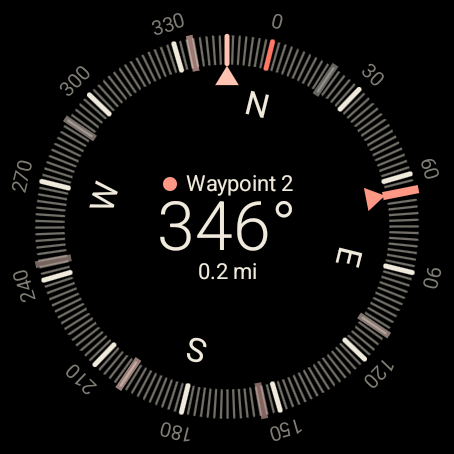
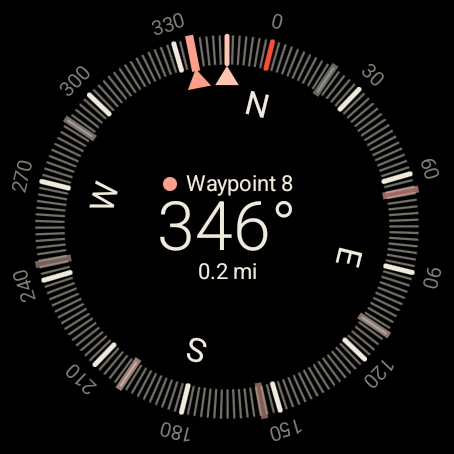
Docs and pictures for watch-test fix round 2: north #FF4D33 and the error color #FF7C65 on the owner's gray scheme (README, TESTING, spec, WATCH-CHECKLIST row 16 with the pointer/north/focused-arrow comparison, screenshots index); the owner's approvals of arrival first and `10 ft ±50 ft` recorded in
Claude-Session: https://claude.ai/code/session_01KAiVD4eVXLN9qRyssXtjz6

diff --git a/docs/superpowers/specs/2026-10-13-wear-compass-v3-watch-report.md b/docs/superpowers/specs/2026-10-13-wear-compass-v3-watch-report.md
@@ -152,7 +152,7 @@ As built (Task 5, 2026-10-14, and its fix round the same day):
 - `Standard`: the pointer `#2F8BFF`, north and the error color `#FF3B30`, the ink `#E8EAED`, the secondary text `#9E9E9E`, the faint ticks `#6E6E6E`, the dial's numbers `#7C7C7C`, and a waypoint's stored place (0 to 360) taken as a hue on the full wheel at 0.65 of saturation and full brightness (`wheelColor`), as waypoints were colored in v2 before the ring. New waypoints are given places 137.508 degrees apart (the golden angle) as in v2, now starting at 108.3 (`FIRST_WAYPOINT_PLACE`), the middle of the widest gap of hue between north's red (3.2) and the pointer's blue (213.5), a green; until then they started at 0, a red beside north's. A new waypoint's place is chosen from that numbering (`nextWaypointPlace`, fix round 2): a place within 25 degrees (`SKIP_HUE_APART`) of north's red or the pointer's blue is passed over, and so is one already taken; of the first eight left, the one furthest from the places of the waypoints there are is given, the earliest of those as far. So no new waypoint lands within 25 degrees of the red or the blue (the numbering's third, seventh and eighth places, 23.3, 213.4 and 350.9, are never given), the first is still 108.3, and on an install whose waypoints were numbered from 0 a new place is not put beside an old one: with eight such waypoints the numbering's next place, 108.3, was 3.3 degrees from one, and now the next three are each at least 23 degrees from every place taken. On a new install the first eight are 108.3, 298.4, 180.9, 43.4, 245.8, 75.9, 148.5 and 265.9. The place is chosen and the waypoint stored under one lock, so two saves made together get two places. A waypoint keeps the place it was given: the places of existing waypoints are not changed, and a color set by hand on the edit screen is not held to the 25 degrees. The colors are never made from the scheme in this mode (`paletteFor` ignores it). The library is still asked whether it gives a scheme, so that the row can say whether `Watch face` can be chosen; what it gives is not kept.
 - `Watch face`: the three roles as in v2 (`roleColors`), with one change: a primary with less than 0.30 of saturation once it reads (`ACCENT_MIN_SATURATION`), but at least 0.10 (`GRAY_SATURATION`), is deepened to 0.30 with its hue and its brightest channel kept, and the scheme is used. Below 0.10 it is a gray and, as before, the whole scheme gives way to the app's own three (until watch-test fix round 1: see the gray schemes below). The tertiary and the error color are still used from 0.15 (`MIN_SATURATION`). The Wear OS 5.1 image's `#D9E2FF` (0.149) becomes `#B2C4FF`, so on that image the scheme is now used (north `#FD7EF3`, error `#F2B8B5`); the primaries the API 37 image made, 0.28 and 0.22, are deepened to 0.30 too. The accent is told from the ink by its saturation: it has at least 0.2 more (`ACCENT_INK_SATURATION_APART`), checked on the recorded schemes and on 20 000 random ones. The ink, the secondary text, the faint ticks and the dial's numbers take the hue and the saturation of the scheme's `onSurface`, `onSurfaceVariant` and `outline` (the system's `system_on_surface_dark`, `system_on_surface_variant_dark`, `system_outline_dark`), the saturation held under 0.10, at the least brightness at which each has at least the contrast with black of the app's own color for that role (`graysFor`); a dark hue that cannot read that well at full brightness gives up saturation instead. So each reads at least as well as in `Standard` and their order from light to dark is kept. A waypoint's stored place is a color on a ring of three anchors that are at least 60 degrees of hue from one another (`ringThirdFor`): the accent, north, and the error color where it is that far from both; otherwise a color made at the middle of the widest gap of hue between the accent and north, with the mean of their saturations (at least 0.15) at full brightness, lightened until it reads at 4.5 to 1. Errors are still drawn in the error color; only the ring's third anchor changes. On the API 35 image the error color `#F2B8B5` is 58 degrees from north, and the third anchor is `#D4FF98`; with the API 37 seeds the error color `#FFBEB9` is the third. A scheme whose primary gives way (the app's blue, red and red) has the third `#58FF30`. The pointer, north, the words that can be tapped and the switch ticks follow the roles, as in v2. The background stays black; the confirming green and the breadcrumb color are not taken from the scheme.
 - The schemes the emulators gave, as primary, tertiary, error, `onSurface`, `onSurfaceVariant`, `outline`: API 35 `#D9E2FF #FDD7FA #F2B8B5 #E2E2E9 #C5C6D0 #8F9099`; API 37 with the seed `2F8BFF` `#B7CFFF #D3C8FF #FFBEB9 #E4E8F4 #CACEDA #A2A5B1`; API 37 with `00AA55` `#BBEFC2 #DCE9A1 #FFBEB9 #E0EBDE #C6D1C4 #9EA99C` (`theme_style` `NEUTRAL` in place of `TONAL_SPOT` gave the same colors). What the app makes of them, as accent, north, error, ink, secondary text, faint, numbers: API 35 `#B2C4FF #FD7EF3 #F2B8B5 #EAEAF1 #9D9EA6 #6D6E75 #7B7C84`; seed `2F8BFF` `#B2CCFF #D47FFF #FFBEB9 #E6EAF6 #9B9EA7 #6C6E76 #7A7C85`; seed `00AA55` `#A7EFB1 #D9E974 #FFBEB9 #E2EDE0 #99A197 #6A7168 #777F75`.
-- Gray schemes (watch-test fix round 1, 2026-10-16). The owner's watch (API 37, `dynamic_color_theme_enabled` 1, the overlay's `system_palette` `#DCD7CA`, `accent_color` `#FF3E32`, `theme_style` `CONTENT`) gave the app primary `#FFF9EB`, tertiary `#FFC0B7`, error `#FFBFB0`, `onSurface` `#EDE8DA`, `onSurfaceVariant` `#D3CEC1`, `outline` `#AAA699`; the primary's 0.078 of saturation is under 0.10, so the whole scheme gave way to the app's blue and red but for the ink ("drawing from watch face colors didn't work (no effect on colors)"). The owner, 2026-10-16: "For a color scheme like mine, North should be the red from the watch face, and the marker colors and other elements should be gray or gray-red. I.e. North is the dominant theme color and the waypoints and other UI elements come from other theme colors with interpolation". As built: a scheme whose primary is under 0.10 once it reads, and whose tertiary or error color is a color (0.15 or more once it reads), is a gray scheme (`isGrayScheme`, `grayRoleColors`, `nav/WatchColors.kt`). North is made from the tertiary, or from the error color where the tertiary is a gray: the tertiary is the scheme's color the system makes from the watch face's own accent (here `#FFC0B7` from `#FF3E32`), the error color the system's error tone; its hue and brightness are kept, it is deepened to at least 0.5 of saturation and to 0.3 more than the pointer's (`NORTH_POINTER_SATURATION_APART`), and brightened until it reads. The pointer (the accent: the pointer, the words that can be tapped, the switch ticks) is the primary, made to read, mixed straight in red, green and blue with north, at the least share of north that gives 0.30 of saturation: a gray-red, told from the ink (under 0.10) by 0.2 of saturation and from north by 0.3, which is the measure by which north and the pointer are told apart in a gray scheme, in place of the 60 degrees of hue. The error color follows the rule for every scheme (the app's red where it looks like the pointer). The waypoints' ring keeps its order and its reading (accent, north, third) with a gray of the scheme as its third anchor: the `outline` (or `onSurfaceVariant`, or the primary), held under 0.10 and made to read on black (`grayRingThird`), so new waypoints are grays and gray-reds between the three; the rule of three anchors 60 degrees apart stays for the other schemes. With the owner's scheme: the pointer `#FFC3B2`, north `#FF7865` (hue 7.4, 0.60), error `#FF3B30`, the ring's gray `#AAA69B`, the ink `#EFEADC`, secondary text `#A29E94`, faint `#716F67`, numbers `#7F7C74`; the first eight new waypoints `#AAA69B #FF9785 #DDB8A9 #D88D7E #FFB8A7 #C19A8C #C6B0A3 #FFAC9A`, each at least 12 apart in a channel from the others and at least 24 from north. A scheme of grays only (no color in the tertiary or the error color) is not used, as before. Schemes whose primary is a color are made as before. `WatchColorsTest` and `ColorsSettingTest` check these with the owner's scheme (they failed on the code before: the pointer `#2F8BFF` and north `#FF3B30`) and on 150 000 and 20 000 random schemes.
+- Gray schemes (watch-test fix round 1, 2026-10-16). The owner's watch (API 37, `dynamic_color_theme_enabled` 1, the overlay's `system_palette` `#DCD7CA`, `accent_color` `#FF3E32`, `theme_style` `CONTENT`) gave the app primary `#FFF9EB`, tertiary `#FFC0B7`, error `#FFBFB0`, `onSurface` `#EDE8DA`, `onSurfaceVariant` `#D3CEC1`, `outline` `#AAA699`; the primary's 0.078 of saturation is under 0.10, so the whole scheme gave way to the app's blue and red but for the ink ("drawing from watch face colors didn't work (no effect on colors)"). The owner, 2026-10-16: "For a color scheme like mine, North should be the red from the watch face, and the marker colors and other elements should be gray or gray-red. I.e. North is the dominant theme color and the waypoints and other UI elements come from other theme colors with interpolation". As built: a scheme whose primary is under 0.10 once it reads, and whose tertiary or error color is a color (0.15 or more once it reads), is a gray scheme (`isGrayScheme`, `grayRoleColors`, `nav/WatchColors.kt`). North is made from the tertiary, or from the error color where the tertiary is a gray: the tertiary is the scheme's color the system makes from the watch face's own accent (here `#FFC0B7` from `#FF3E32`), the error color the system's error tone; its hue and brightness are kept, it is deepened to 0.8 of saturation (`NORTH_GRAY_SATURATION`, the saturation of the watch face's `#FF3E32`; watch-test fix round 2), or kept at its own where that is more, and to at least 0.5 and 0.3 more than the pointer's (`NORTH_POINTER_SATURATION_APART`), and brightened until it reads; a hue too dark to read at full brightness with that much gives up as little as reading needs. The pointer (the accent: the pointer, the words that can be tapped, the switch ticks) is the primary, made to read, mixed straight in red, green and blue with north, at the least share of north that gives 0.30 of saturation: a gray-red, told from the ink (under 0.10) by 0.2 of saturation and from north by 0.3, which is the measure by which north and the pointer are told apart in a gray scheme, in place of the 60 degrees of hue. The error color is the scheme's where it reads, does not look like the pointer and has less saturation than north; otherwise it is the pointer mixed straight with north at the least share that gives it 0.3 more saturation than the pointer (`ERROR_MIN_SATURATION_APART`), a gray-red told from the pointer as for any scheme, or north itself where no lesser share does. So north is the reddest color on the screen. (In watch-test fix round 1 the error color followed the rule for every scheme, the app's red where it looks like the pointer; on the owner's scheme that was `#FF3B30`, 0.81 of saturation, redder than north.) The waypoints' ring keeps its order and its reading (accent, north, third) with a gray of the scheme as its third anchor: the `outline` (or `onSurfaceVariant`, or the primary), held under 0.10 and made to read on black (`grayRingThird`), so new waypoints are grays and gray-reds between the three; the rule of three anchors 60 degrees apart stays for the other schemes. With the owner's scheme: the pointer `#FFC4B2` (0.30), north `#FF4D33` (hue 7.6, 0.80, 6.4 to 1 on black; `#FF7865`, 0.60, in watch-test fix round 1), error `#FF7C65` (0.60, 8.3 to 1), the ring's gray `#AAA69B`, the ink `#EFEADC`, secondary text `#A29E94`, faint `#716F67`, numbers `#7F7C74`; the first eight new waypoints `#AAA69B #FF7F68 #DDB8A9 #D87663 #FFB39F #C18E7F #C6B0A3 #FF9F8A`, each at least 12 apart in a channel from the others and at least 24 from north, and none of the first fifty with as much saturation as north. The second (`#FF7F68`) is 3 apart in a channel from the error color. A scheme of grays only (no color in the tertiary or the error color) is not used, as before. Schemes whose primary is a color are made as before. `WatchColorsTest` and `ColorsSettingTest` check these with the owner's scheme (they failed on the code before: the pointer `#2F8BFF` and north `#FF3B30`) and on 150 000 and 20 000 random schemes.
 - With no scheme the row reads `Not available on this watch`, takes no tap, and the colors are those of `Standard`; a stored `Watch face` stays stored. Seen on the API 35 and API 37 emulators by putting `dynamic_color_theme_enabled` to 0 and to 1 with `adb shell settings put global`: with 0 the row said `Not available on this watch` and the compass had the blue and the red; with 1 again it said `Watch face`. `ColorsRowTest` does the same through the shell.
 - With the API 35 image's scheme the accent deepened to 0.30, `#B2C4FF`, is a clear periwinkle beside the near-white ink `#EAEAF1` (`colors-watchface-large.png`); deepened only to 0.15 (`#D8E1FF`) it had been told from the ink by its shape and place more than by its color.
 - Where the first new waypoint's color is. With `Standard` its place, 108.3, is the wheel's `#7AFF59`, between yellow-green and green, as the owner asked. With `Watch face` the ring is read turned (`RING_READ_OFFSET_TURNS`, two thirds of a turn less 108.3 over 360) so that the place 108.3 is the ring's third anchor: the accent is at the place 228.3 and north at 348.3, and their order and the thirds between them are as before. Until then a place was read straight, the accent at 0, and the first new waypoint was nine tenths of the way from the accent to north, close to north's pink (`#F685F4` beside north's `#FD7EF3` on the API 35 image). Now it is the third anchor (`#D4FF98` on the API 35 image, the error color `#FFBEB9` with the API 37 seeds), checked on the recorded schemes and on 20 000 random ones, and in `colors-watchface-large.png` and `-small.png` (`Waypoint 8`). No stored place is changed, so a waypoint made before this keeps its place and is drawn at the turned ring's color for it. The reading allocates nothing.
@@ -245,7 +245,7 @@ As built (watch-test fix round 1, 2026-10-16):
 
 - `directionUncertain` (`nav/Targets.kt`): the position's reported accuracy (the radius the system gives) is larger than the distance. `buildTargets` and `buildTrail` decide arrival first, as before (10 m or 30 ft, left beyond 12 m or 36 ft; for the crumb walked to only with a fix of 15 m or better); a target or the crumb walked to that is not arrived at and is uncertain has no dial angle and is marked `uncertain`. So it has no line and no arrow on the dial, it is not faced (no blind navigation pulse), the pointer passing its bearing gives no target vibration (`nextTargetSide` takes no bearing as no side), and it is not counted as arrived at: the crumb is not consumed (consuming is arrival's alone, `trailAfterFix`, which is unchanged). A target that is not focused has no line either, and nor has another crumb's tick; such a crumb is not counted as arrived at.
 - The readout writes the distance and, dim after it, the position's accuracy as a save's accuracy is written: `10 ft ±50 ft`, `15 m ±30 m`, for a waypoint as for a crumb (until then a waypoint's distance never had it). An old position is marked `(old)` instead, as for any distance. A crumb walked to that is not uncertain keeps the poor fix's accuracy after its distance as before (fixes poorer than 15 m).
-- Ruling: arrival comes first. Read the other way (no arrival while the accuracy is larger than the distance), a wearer standing on a crumb with a 5 m fix would never reach it, and with fixes of 10 m or poorer no crumb could be reached at all. With arrival first, a crumb 3 m away is still consumed by a fix of 15 m or better (as before), and the indoor case the owner met (a 15 m fix, `isGoodEnough`) consumes it too; a fix poorer than 15 m, which consumes nothing, now draws no line to a crumb nearer than its accuracy.
+- Ruling: arrival comes first. Read the other way (no arrival while the accuracy is larger than the distance), a wearer standing on a crumb with a 5 m fix would never reach it, and with fixes of 10 m or poorer no crumb could be reached at all. With arrival first, a crumb 3 m away is still consumed by a fix of 15 m or better (as before), and the indoor case the owner met (a 15 m fix, `isGoodEnough`) consumes it too; a fix poorer than 15 m, which consumes nothing, now draws no line to a crumb nearer than its accuracy. The owner approved this ruling on 2026-10-16: "Arrival first, as built (Recommended)".
 - The emulators give no position less accurate than 5 m (the geo console sets no accuracy, and an NMEA sentence's HDOP of 25 changed nothing on API 37), so the app's own updates cannot reach this state there. `UncertainPointerTest` composes the real readout and dial (`CompassReadout`, `CompassDial`) in the real activity from the state the pure functions build for a given accuracy, reads the words through the accessibility tree and the line by the pixels of its color: a crumb 10 ft away with a 50 ft fix shows `10 ft ±50 ft` and no line, 328 ft away `328 ft ±50 ft` with its line; a waypoint 49 ft away with a 98 ft fix `49 ft ±98 ft` and no line, 328 ft away `328 ft` with its line.
 
 ## Not possible to verify without the watch
@@ -262,6 +262,6 @@ Approved by the owner on 2026-10-16 ("Approve A and B (Recommended)"), A, the wo
 
 Approved by the owner on 2026-10-16 (the same answer), B, the check screen's words, in the debug and watch builds only: built by Task 6 fix round 1 for the check screen's `Heading source` row on a watch that cannot work out the magnetic heading: `Magnetic unavailable`, `Blend unavailable`. Built by Task 7 for the check screen (debug and watch builds only), not in the spec before: calibration's row `Check`; the screen's title `Check`; `Heading source` with `Fused`, `Magnetic`, `Blend`; `Error`, `Level`, `Field`; the parts `Watch colors`, `Inputs`, `Vibrations`; `Color scheme`, `None`, `Primary`, `Tertiary`, `Error color`, `On surface`, `On surface variant`, `Outline`; `Buttons`, `Unknown`, `Side keys`, `STEM_1` to `STEM_3`, `Assignable button`, `Wear SDK`, `Wear SDK reached`, `One-handed gestures`, `Yes`, `No`; the primitives `Click`, `Thud`, `Spin`, `Quick rise`, `Slow rise`, `Quick fall`, `Tick`, `Low tick`; `Play thin line`, `Play thick line`, `Play target`, with `Primitives` or `Constant`; `--` for a value there is none of. Built by Task 7 fix round 1 in place of the three headings' row labels `Fused`, `Magnetic`, `Blend` (which were also the source row's value): `Fused heading`, `Magnetic heading`, `Blend heading`.
 
-Proposed by watch-test fix round 1 and built as proposed (owner to approve): the distance to a target nearer than the position's accuracy, followed dim by that accuracy, `10 ft ±50 ft` (in meters `15 m ±30 m`), the form a save's accuracy and a poor fix's note after a crumb's distance already have.
+Proposed by watch-test fix round 1 and built as proposed; the owner approved it on 2026-10-16 ("Approve (Recommended)"): the distance to a target nearer than the position's accuracy, followed dim by that accuracy, `10 ft ±50 ft` (in meters `15 m ±30 m`), the form a save's accuracy and a poor fix's note after a crumb's distance already have.
 
 Proposed, not built: `Taps at ticks and the target`, as the `Tick feedback` row's second line in place of `Faint tap at each tick mark` (Task 4).

diff --git a/README.md b/README.md
@@ -107,7 +107,7 @@ Crumbs are stored separately from waypoints, are never listed with them except a
 | Colors | `Standard` | `Standard` or `Watch face`, the choice as it stands; `Not available on this watch` where the system gives no color scheme |
 | Back up waypoints | on | `With this watch's backup` |
 
-`Colors` is a row, not a switch: one tap gives the other choice, and a screen reader says what the tap does (`Use watch face colors` or `Use standard colors`). It is backed up with the other settings, and a value that cannot be read is `Standard`. With `Watch face`, on API 35 and newer while the system's dynamic color setting (`dynamic_color_theme_enabled`) is 1, the Wear Material 3 library gives the system's color scheme: the pointer and the words that can be tapped take its primary, north its tertiary and the error color its error color, after the contrast checks of `nav/WatchColors.kt` (each reads on black at 4.5 to 1; a primary with less than 0.30 of saturation but at least 0.10 is deepened to 0.30 and kept; north is kept 60 degrees of hue from the pointer and at least 0.5 of saturation). A primary under 0.10 is taken for a gray, and the scheme is then a gray scheme (`isGrayScheme`) when its tertiary or its error color is a color: north is made from the tertiary (the color the system makes from the watch face's accent), or from the error color where the tertiary is a gray, with its hue and brightness kept and deepened to at least 0.5 of saturation and to 0.3 more than the pointer's; the pointer and the words that can be tapped are the primary mixed with north, with the least share of north that gives 0.30 of saturation (a gray-red); and the waypoints' ring runs from the pointer to north to a gray of the scheme (its `outline`, made to read on black, `grayRingThird`), so new waypoints are grays and gray-reds. With the scheme the owner's watch gave on 2026-10-16 (primary `#FFF9EB`, tertiary `#FFC0B7`, error `#FFBFB0`, `onSurface` `#EDE8DA`, `onSurfaceVariant` `#D3CEC1`, `outline` `#AAA699`) that is the pointer `#FFC3B2`, north `#FF7865`, the error color the app's red `#FF3B30` (the scheme's looks like the pointer), the ring's gray `#AAA69B` and the ink `#EFEADC`. A scheme whose primary, tertiary and error color are all grays is not used, and the colors are the app's own. The ink, the secondary text, the faint ticks and the dial's numbers take the hue and saturation of the scheme's `onSurface`, `onSurfaceVariant` and `outline`, the saturation held under 0.10, at the least brightness at which each has at least the contrast with black of the app's own color for that role; a dark hue that cannot read that well at full brightness gives up saturation instead. The background stays black, and the confirming green and the breadcrumb color do not change. Where the library gives no scheme, the row says `Not available on this watch`, takes no tap, and the colors are those of `Standard`; a stored `Watch face` is kept for when a scheme is given. No emulator image switches the system setting on by itself, and on the emulators the watch face's own colors did not change the scheme. The app looks at whether a scheme is given, and at its colors, when it comes on screen and when the setting is changed: a change of the system's scheme while the app is on screen is followed the next time it comes on screen.
+`Colors` is a row, not a switch: one tap gives the other choice, and a screen reader says what the tap does (`Use watch face colors` or `Use standard colors`). It is backed up with the other settings, and a value that cannot be read is `Standard`. With `Watch face`, on API 35 and newer while the system's dynamic color setting (`dynamic_color_theme_enabled`) is 1, the Wear Material 3 library gives the system's color scheme: the pointer and the words that can be tapped take its primary, north its tertiary and the error color its error color, after the contrast checks of `nav/WatchColors.kt` (each reads on black at 4.5 to 1; a primary with less than 0.30 of saturation but at least 0.10 is deepened to 0.30 and kept; north is kept 60 degrees of hue from the pointer and at least 0.5 of saturation). A primary under 0.10 is taken for a gray, and the scheme is then a gray scheme (`isGrayScheme`) when its tertiary or its error color is a color: north is made from the tertiary (the color the system makes from the watch face's accent), or from the error color where the tertiary is a gray, with its hue and brightness kept and deepened to 0.8 of saturation, the saturation of the watch face's own red on the owner's watch (`#FF3E32`), and to at least 0.5 and 0.3 more than the pointer's (a hue too dark to read at full brightness with 0.8 gives up as little as reading needs); the pointer and the words that can be tapped are the primary mixed with north, with the least share of north that gives 0.30 of saturation (a gray-red); the error color is the scheme's where it reads, does not look like the pointer and has less saturation than north, and otherwise the pointer mixed with north at the least share that gives 0.3 more saturation than the pointer (a gray-red), so north is the reddest color on the screen; and the waypoints' ring runs from the pointer to north to a gray of the scheme (its `outline`, made to read on black, `grayRingThird`), so new waypoints are grays and gray-reds. With the scheme the owner's watch gave on 2026-10-16 (primary `#FFF9EB`, tertiary `#FFC0B7`, error `#FFBFB0`, `onSurface` `#EDE8DA`, `onSurfaceVariant` `#D3CEC1`, `outline` `#AAA699`) that is the pointer `#FFC4B2`, north `#FF4D33` (0.80 of saturation, 6.4 to 1 on black), the error color `#FF7C65` (0.60, 8.3 to 1; the scheme's looks like the pointer), the ring's gray `#AAA69B` and the ink `#EFEADC`. A scheme whose primary, tertiary and error color are all grays is not used, and the colors are the app's own. The ink, the secondary text, the faint ticks and the dial's numbers take the hue and saturation of the scheme's `onSurface`, `onSurfaceVariant` and `outline`, the saturation held under 0.10, at the least brightness at which each has at least the contrast with black of the app's own color for that role; a dark hue that cannot read that well at full brightness gives up saturation instead. The background stays black, and the confirming green and the breadcrumb color do not change. Where the library gives no scheme, the row says `Not available on this watch`, takes no tap, and the colors are those of `Standard`; a stored `Watch face` is kept for when a scheme is given. No emulator image switches the system setting on by itself, and on the emulators the watch face's own colors did not change the scheme. The app looks at whether a scheme is given, and at its colors, when it comes on screen and when the setting is changed: a change of the system's scheme while the app is on screen is followed the next time it comes on screen.
 
 `Calibrate` shows the accuracy the magnetometer last reported (`High`, `Medium`, `Low`, `Unreliable`) and opens the calibration screen: the words `Turn your wrist slowly in every direction`; a ring of 24 segments with `Covered` and the share of them lit (`50%`) to its left and, when the rotation vector gives one, `Error` and the estimated heading error in whole degrees (`±12°`) to its right; the accuracy level; the field strength in microtesla; a frame that fills by quarters as accuracy improves; and a warning with the frame filled in the error color while the field is below 25 or above 65 microtesla. Each segment of the ring is a region of the directions the magnetometer's field can point in, in the watch's own frame (`nav/Calibration.kt`): three rings (the field through the back of the watch outermost, across its face, out of its face innermost) of eight sectors, placed by the direction of the field across the face. A segment lights when the field has pointed there while the screen is open, whatever the field's strength: a field of a strength the earth's cannot have lights its segment too, with the warning and the red frame. The lit segments are kept across openings of calibration, restarts of the app and the end of its process (in a file of their own, `settings-calibration`, which is not backed up), and start over, none lit, when the magnetometer reports that its accuracy has fallen to `Low` or `Unreliable` while its sensor runs (on any screen). A report below the level kept that comes in the first 3 seconds after the sensor is started, before a report at that level or better, does not count (`ringMemoryStep`, `RING_STARTUP_MS` in `nav/Calibration.kt`). A screen reader reads `Covered` and the share as one, and announces a change of the share. The ring shows the motion covered, not the accuracy. The screen is kept on for two minutes from its opening or from the last segment that lit, whichever is later. The last line shows the version and `MIT License`.
 

diff --git a/docs/TESTING.md b/docs/TESTING.md
@@ -37,7 +37,7 @@ The instrumented tests act on the app's real data on the device they run on. The
 scripts/test-counts.sh unit
 ```
 
-They cover the pure functions in `nav/`, and the table of vibrations in `ui/Vibrations.kt` (`VibrationTableTest`), and need no device. `StaticInitOrderTest` loads `nav/Navigation.kt` and `nav/WatchColors.kt` afresh in a class loader of its own, one or the other first, and checks the ring's read offset and the first waypoint's color each way (it failed on the offset's old field form with Navigation.kt first). `WaypointPlacesTest` checks the places new waypoints are given (500 in a row, 5000 random sets of places already taken). `CalibrationTest` checks the calibration ring's regions with fifteen magnetometer vectors recorded from the API 37 emulator (each set through its sensor console and read back from `dumpsys sensorservice`), the heading error read from values[4], the `Calibrate` prompt's threshold and its margin (on above 30 degrees, off only below 25, `largeHeadingError`), that a field of any strength lights its region, the two-minute keep-on rule, and the ring's memory (`ringMemoryStep`, `ringMemorySettles`): a fall to low or unreliable clears the ring, another level is only kept, and a report below the level kept in the first 3 seconds after the sensor is registered, before one at that level or better, does not clear it (a start-up that reports unreliable, then low, then its level keeps the ring; a sensor that stays low past the 3 seconds clears it). `WatchColorsTest` and `ColorsSettingTest` check the gray schemes (`isGrayScheme`, a primary under 0.10 beside a tertiary or error color that is a color) with the scheme of the owner's watch (primary `#FFF9EB`, tertiary `#FFC0B7`, error `#FFBFB0`, `onSurface` `#EDE8DA`, `onSurfaceVariant` `#D3CEC1`, `outline` `#AAA699`): it is used (before watch-test fix round 1 the pointer was `#2F8BFF` and north `#FF3B30`), north has the tertiary's hue, at least 0.5 of saturation and 0.3 more than the pointer, the pointer is a gray-red between the primary and north with 0.30 of saturation, the error color is the app's red, the ring's third anchor is the outline's gray, and the first eight new waypoints are grays or gray-reds, at least 12 apart in a channel from one another and 24 from north; on random schemes the gray ones keep these bounds and the others the rules as before. `TargetsTest`, `TrailTest` and `ReadoutTest` check the uncertain pointer (`directionUncertain`): a crumb 3 m away with a 30 m fix has no dial angle, is not arrived at and is not consumed, 100 m away it has its angle; arrival within 10 m is decided first; a waypoint 15 m away with a 30 m fix has no angle; another crumb that near has no tick; the readout writes `10 ft ±50 ft`, for a waypoint `49 ft ±98 ft`, and `(old)` instead with an old fix. `HeadingKindInUseTest` checks that a watch that cannot work out the magnetic heading runs the fused source whichever is asked for, and the check screen's `Magnetic unavailable` / `Blend unavailable`. `HeadingBlendTest` turns a fused heading that drifts 0.6 degrees a second through thirty full turns each way and checks that the blend stays within 5 degrees of the true heading. The second command prints each class's count and the total from the result XML, and exits 1 if a test failed or there are no results.
+They cover the pure functions in `nav/`, and the table of vibrations in `ui/Vibrations.kt` (`VibrationTableTest`), and need no device. `StaticInitOrderTest` loads `nav/Navigation.kt` and `nav/WatchColors.kt` afresh in a class loader of its own, one or the other first, and checks the ring's read offset and the first waypoint's color each way (it failed on the offset's old field form with Navigation.kt first). `WaypointPlacesTest` checks the places new waypoints are given (500 in a row, 5000 random sets of places already taken). `CalibrationTest` checks the calibration ring's regions with fifteen magnetometer vectors recorded from the API 37 emulator (each set through its sensor console and read back from `dumpsys sensorservice`), the heading error read from values[4], the `Calibrate` prompt's threshold and its margin (on above 30 degrees, off only below 25, `largeHeadingError`), that a field of any strength lights its region, the two-minute keep-on rule, and the ring's memory (`ringMemoryStep`, `ringMemorySettles`): a fall to low or unreliable clears the ring, another level is only kept, and a report below the level kept in the first 3 seconds after the sensor is registered, before one at that level or better, does not clear it (a start-up that reports unreliable, then low, then its level keeps the ring; a sensor that stays low past the 3 seconds clears it). `WatchColorsTest` and `ColorsSettingTest` check the gray schemes (`isGrayScheme`, a primary under 0.10 beside a tertiary or error color that is a color) with the scheme of the owner's watch (primary `#FFF9EB`, tertiary `#FFC0B7`, error `#FFBFB0`, `onSurface` `#EDE8DA`, `onSurfaceVariant` `#D3CEC1`, `outline` `#AAA699`): it is used (before watch-test fix round 1 the pointer was `#2F8BFF` and north `#FF3B30`), north has the tertiary's hue, 0.80 of saturation (the watch face's red `#FF3E32` has 0.80; before watch-test fix round 2 north was `#FF7865`, 0.60, and the error color the app's `#FF3B30`, 0.81, redder than north), is `#FF4D33` and has at least 6 to 1 on black, and 0.3 more saturation than the pointer, the pointer is a gray-red between the primary and north with 0.30 of saturation, the error color is `#FF7C65`, a gray-red between the pointer and north with 0.3 more saturation than the pointer and less than north (a scheme's error color `#FF5449` is kept, the app's `#FF3B30` is not), north has more saturation than each of the first fifty new waypoints, the ring's third anchor is the outline's gray, and the first eight new waypoints are grays or gray-reds, at least 12 apart in a channel from one another and 24 from north; on random schemes the gray ones keep these bounds (and on 150 000, north has at least the error color's saturation, and the error color is told from the pointer or is north itself) and the others the rules as before. `TargetsTest`, `TrailTest` and `ReadoutTest` check the uncertain pointer (`directionUncertain`): a crumb 3 m away with a 30 m fix has no dial angle, is not arrived at and is not consumed, 100 m away it has its angle; arrival within 10 m is decided first; a waypoint 15 m away with a 30 m fix has no angle; another crumb that near has no tick; the readout writes `10 ft ±50 ft`, for a waypoint `49 ft ±98 ft`, and `(old)` instead with an old fix. `HeadingKindInUseTest` checks that a watch that cannot work out the magnetic heading runs the fused source whichever is asked for, and the check screen's `Magnetic unavailable` / `Blend unavailable`. `HeadingBlendTest` turns a fused heading that drifts 0.6 degrees a second through thirty full turns each way and checks that the blend stays within 5 degrees of the true heading. The second command prints each class's count and the total from the result XML, and exits 1 if a test failed or there are no results.
 
 ## Instrumented tests, one emulator
 

diff --git a/docs/screenshots/README.md b/docs/screenshots/README.md
@@ -189,7 +189,7 @@ In all of them the position was fed and the watch laid flat at a magnetic headin
 
 ## Watch-test fix round 1 (2026-10-16)
 
-The uncertain pointer: taken by `UncertainPointerTest` itself (`/data/local/tmp/uncertain-<name>.png`, pulled after `scripts/quick-tests.sh UncertainPointerTest` on `Wear_OS_Large_Round` and `Wear_OS_Small_Round`), the real readout and dial composed in the real activity from the screen state `buildTrail` and `buildTargets` make for the accuracy named, facing true north: the emulators give no position less accurate than 5 m. The gray scheme: two emulators made for it from the API 37 image (`wearos_large_round`, `wearos_small_round`) and deleted after, with `dynamic_color_theme_enabled` 1 and `theme_customization_overlay_packages` set to the owner's watch's (`system_palette` `DCD7CA`, `accent_color` `FF3E32`, `color_source` `home_wallpaper`, `theme_style` `CONTENT`), which gave the app the owner's scheme (`colors-watchface-gray-check-small`: tertiary `#FFC0B7`, error `#FFBFB0`, `onSurface` `#EDE8DA`); eight waypoints with the first eight places a new install gives (`seed-targets.sh 20:108.3 65:298.4 110:180.9 155:43.4 200:245.8 245:75.9 290:148.5 335:265.9`), heading 0, the position fed, and `Colors` tapped to `Watch face`; the settings put back afterwards and read back (unset).
+The uncertain pointer: taken by `UncertainPointerTest` itself (`/data/local/tmp/uncertain-<name>.png`, pulled after `scripts/quick-tests.sh UncertainPointerTest` on `Wear_OS_Large_Round` and `Wear_OS_Small_Round`), the real readout and dial composed in the real activity from the screen state `buildTrail` and `buildTargets` make for the accuracy named, facing true north: the emulators give no position less accurate than 5 m. The gray scheme: two emulators made for it from the API 37 image (`wearos_large_round`, `wearos_small_round`) and deleted after, with `dynamic_color_theme_enabled` 1 and `theme_customization_overlay_packages` set to the owner's watch's (`system_palette` `DCD7CA`, `accent_color` `FF3E32`, `color_source` `home_wallpaper`, `theme_style` `CONTENT`), which gave the app the owner's scheme (`colors-watchface-gray-check-small`: tertiary `#FFC0B7`, error `#FFBFB0`, `onSurface` `#EDE8DA`); eight waypoints with the first eight places a new install gives (`seed-targets.sh 20:108.3 65:298.4 110:180.9 155:43.4 200:245.8 245:75.9 290:148.5 335:265.9`), heading 0, the position fed, and `Colors` tapped to `Watch face`; the settings put back afterwards and read back (unset). The compass, settings and waypoints pictures were taken again the same way in watch-test fix round 2 (2026-10-16), on two such emulators made again and deleted after; the check screen there showed the same scheme, and its picture is the one from round 1.
 
 | State | File | How it was produced |
 |-|-|-|
@@ -197,7 +197,7 @@ The uncertain pointer: taken by `UncertainPointerTest` itself (`/data/local/tmp/
 | The same fix, the crumb 328 ft away: its line, `328 ft ±50 ft` | `uncertain-crumb-far-large`, `uncertain-crumb-far-small` | `UncertainPointerTest` |
 | A waypoint 49 ft away with a 98 ft fix: no line, `49 ft ±98 ft` | `uncertain-waypoint-near-large`, `uncertain-waypoint-near-small` | `UncertainPointerTest` |
 | The same fix, the waypoint 328 ft away: its line, `328 ft` | `uncertain-waypoint-far-large`, `uncertain-waypoint-far-small` | `UncertainPointerTest` |
-| `Watch face` with the owner's gray scheme: the compass | `colors-watchface-gray-compass-large`, `colors-watchface-gray-compass-small` | the pointer `#FFC3B2`, north `#FF7865` (the tick 14 degrees right of 0: the dial is true north), the eight waypoints in grays and gray-reds |
+| `Watch face` with the owner's gray scheme: the compass | `colors-watchface-gray-compass-large`, `colors-watchface-gray-compass-small` | the pointer `#FFC4B2`, north `#FF4D33` (the tick 14 degrees right of 0: the dial is true north; `#FF7865` until watch-test fix round 2), the eight waypoints in grays and gray-reds, the focused one's arrow (Waypoint 8, `#FF9F8A`) beside the pointer's |
 | The settings, `Colors` at `Watch face` | `colors-watchface-gray-settings-large`, `colors-watchface-gray-settings-small` | the value and the switch ticks in the pointer's gray-red, the ink warm white |
 | The waypoints list | `colors-watchface-gray-waypoints-large`, `colors-watchface-gray-waypoints-small` | two swipes up from the top; each row's tick in its waypoint's color |
 | The check screen's `Watch colors` | `colors-watchface-gray-check-small` | settings, `Calibrate`, `Check`, scrolled to the scheme |

diff --git a/docs/WATCH-CHECKLIST.md b/docs/WATCH-CHECKLIST.md
@@ -28,4 +28,4 @@ What the emulators cannot show, one line each, for a run on the owner's watch. T
 | 13 | The hold-flat drawing on the smaller watch | On a 41 mm watch, with `Show coordinates` on and a target about 3 miles away, tilt the watch upright so `Hold flat` and its drawing show. On the small round emulator (384 x 384 px), the stand-in for the smaller watch, the turning drawing comes within 1.4 px of `3.1 mi` under it; how the 41 mm watch's screen compares with that emulator's was not measured. Look whether they touch. | Nothing. |
 | 14 | Calibration's ring is kept | Open calibration, light a few segments, leave, close the app (swipe it away), open calibration again: the same segments are lit and `Covered` shows the same share. They start over only when `Level` has fallen to `Low` or `Unreliable`; note whether that happens without a reason (for example at each start of the app). | `Level`. |
 | 15 | No pointer when the position is uncertain | Indoors (where fixes are poor), start a trail, drop a crumb, step a few meters away and tap `Trail` to retrace. While the crumb is nearer than the fix's accuracy there should be no line or arrow for it, and the distance should read like `10 ft ±50 ft`; the crumb should stay. Outdoors, walk 30 m or more away: the line should come back and point at the crumb. | Nothing. |
-| 16 | Watch face colors with a gray scheme | With the watch face whose scheme the app read on 2026-10-16 (primary `#FFF9EB`), choose `Colors` `Watch face`. North should be a salmon red (`#FF7865`), the pointer and the words that can be tapped a pale gray-red (`#FFC3B2`), the ink a warm white; new waypoints grays and gray-reds. | Under `Watch colors`: the six colors; `Primary` should still be `#FFF9EB`. |
+| 16 | Watch face colors with a gray scheme | With the watch face whose scheme the app read on 2026-10-16 (primary `#FFF9EB`), choose `Colors` `Watch face`. North should be a deep red near the watch face's own (`#FF4D33`) and the reddest color on the screen, the pointer and the words that can be tapped a pale gray-red (`#FFC4B2`), the ink a warm white; new waypoints grays and gray-reds; the error color (a delete's ring, a failed save) a lighter red (`#FF7C65`). Focus a waypoint whose bearing is near the pointer, or near north, and tell the pointer, north and the focused waypoint's arrow apart at a glance; note any pair that is hard to tell apart. | Under `Watch colors`: the six colors; `Primary` should still be `#FFF9EB`. |
